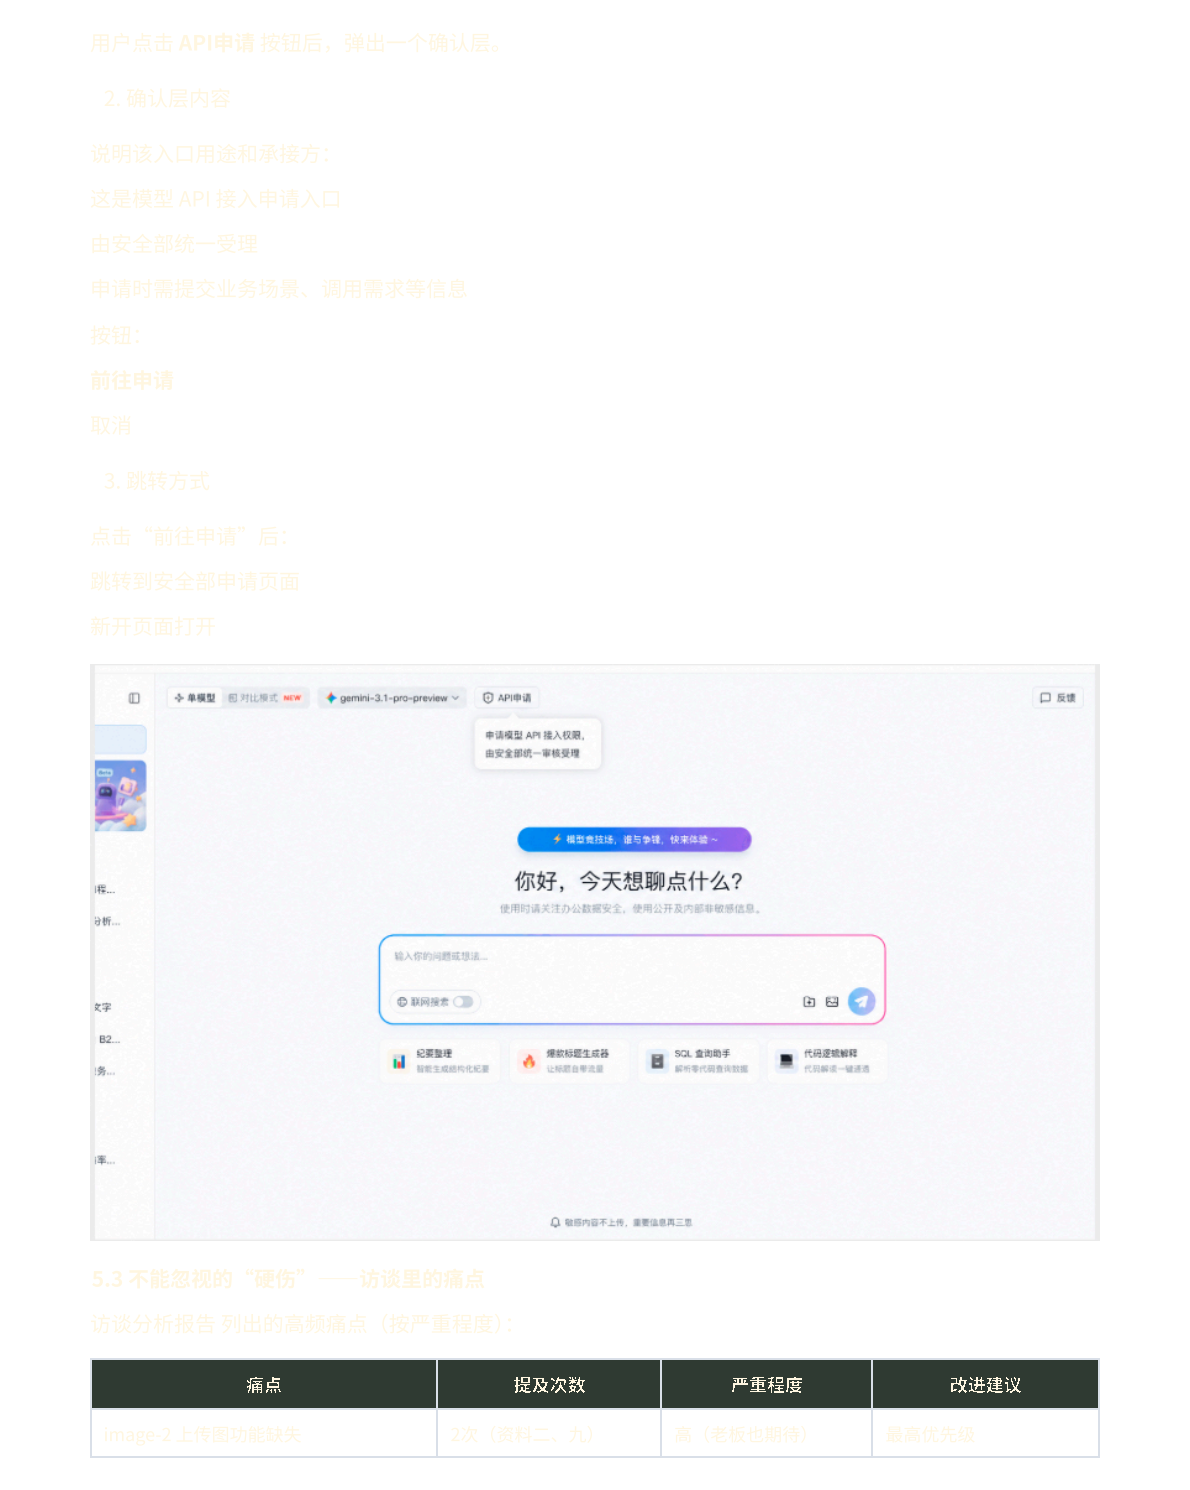
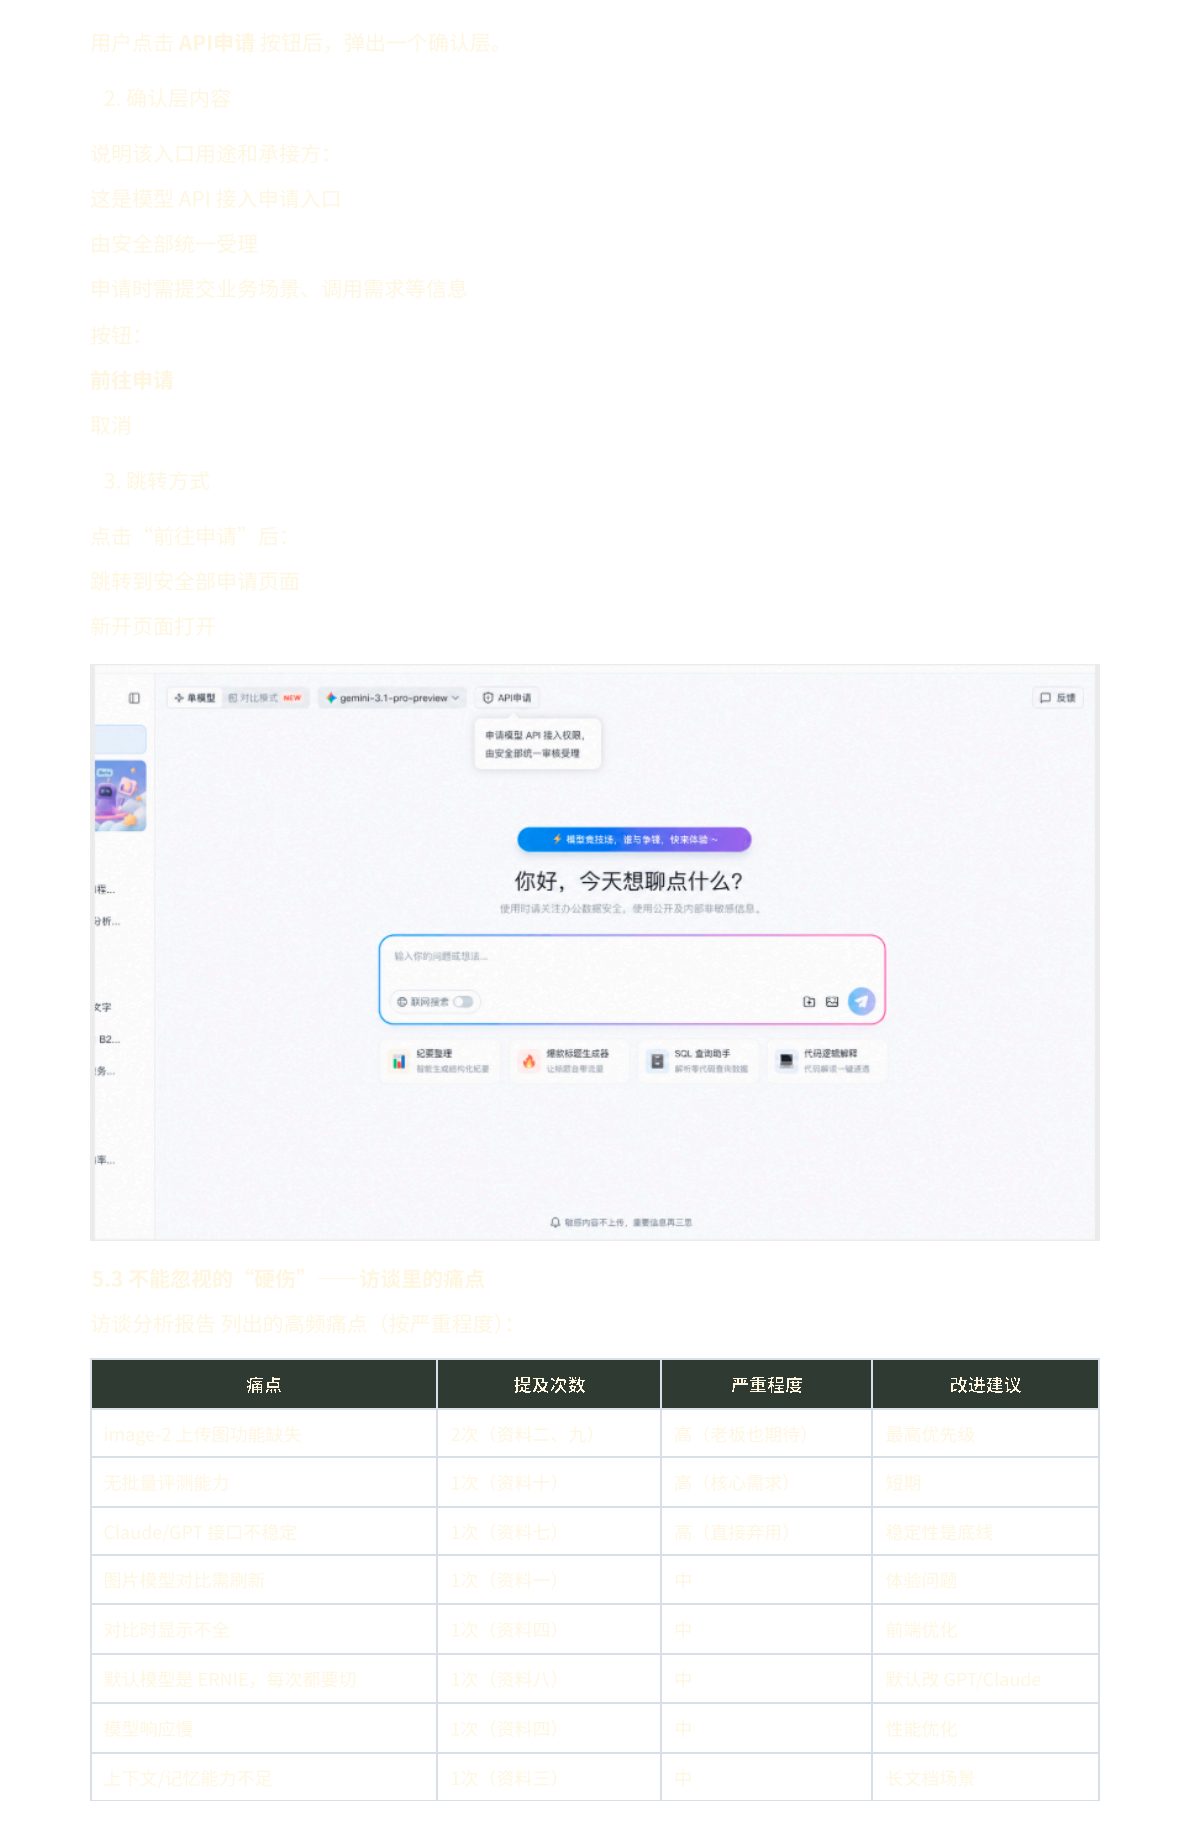
Merge split tables across usage report

diff --git a/scripts/rooms-data.js b/scripts/rooms-data.js
@@ -236,15 +236,15 @@ export const ROOMS = [
         id: "model-experience-usage-analysis",
         title: "模型体验台使用情况分析报告",
         format: "PDF",
-        pages: 26,
+        pages: 25,
         transparentPages: true,
         renderedPages: {
           basePath: "/assets/works/study-model-usage-analysis/transparent-pages",
           extension: "webp",
-          version: "20260731-3",
+          version: "20260731-4",
           width: 1190,
           height: 1684,
-          pageHeights: [1285, 1166, 1532, 1103, 1444, 1489, 1247, 1568, 1362, 1512, 1481, 1474, 1504, 1435, 1535, 1505, 1525, 908, 1535, 1408, 1507, 1248, 1270, 1506, 1490, 459],
+          pageHeights: [1285, 1166, 1532, 1103, 1444, 1489, 1247, 1568, 1676, 1553, 953, 1649, 1212, 1435, 1535, 1505, 1525, 908, 1535, 1408, 1507, 1248, 1270, 1506, 1833],
         },
         links: [
           {

diff --git a/rooms/living/index.html b/rooms/living/index.html
@@ -1,1 +1,1 @@
-<!doctype html><html lang="en"><head><meta charset="utf-8"><meta name="viewport" content="width=device-width,initial-scale=1"><meta name="theme-color" content="#f1f0eb"><title>Living Room — 杨昕乔 Portfolio</title><link rel="stylesheet" href="/styles/portfolio.css?v=34"></head><body><div id="app"></div><script type="module" src="/scripts/app.js?v=35"></script></body></html>
+<!doctype html><html lang="en"><head><meta charset="utf-8"><meta name="viewport" content="width=device-width,initial-scale=1"><meta name="theme-color" content="#f1f0eb"><title>Living Room — 杨昕乔 Portfolio</title><link rel="stylesheet" href="/styles/portfolio.css?v=34"></head><body><div id="app"></div><script type="module" src="/scripts/app.js?v=36"></script></body></html>

diff --git a/rooms/kitchen/index.html b/rooms/kitchen/index.html
@@ -1,1 +1,1 @@
-<!doctype html><html lang="en"><head><meta charset="utf-8"><meta name="viewport" content="width=device-width,initial-scale=1"><meta name="theme-color" content="#f1f0eb"><title>Kitchen — 杨昕乔 Portfolio</title><link rel="stylesheet" href="/styles/portfolio.css?v=34"></head><body><div id="app"></div><script type="module" src="/scripts/app.js?v=35"></script></body></html>
+<!doctype html><html lang="en"><head><meta charset="utf-8"><meta name="viewport" content="width=device-width,initial-scale=1"><meta name="theme-color" content="#f1f0eb"><title>Kitchen — 杨昕乔 Portfolio</title><link rel="stylesheet" href="/styles/portfolio.css?v=34"></head><body><div id="app"></div><script type="module" src="/scripts/app.js?v=36"></script></body></html>

diff --git a/rooms/garden/index.html b/rooms/garden/index.html
@@ -1,1 +1,1 @@
-<!doctype html><html lang="en"><head><meta charset="utf-8"><meta name="viewport" content="width=device-width,initial-scale=1"><meta name="theme-color" content="#f1f0eb"><title>Garden — 杨昕乔 Portfolio</title><link rel="stylesheet" href="/styles/portfolio.css?v=34"></head><body><div id="app"></div><script type="module" src="/scripts/app.js?v=35"></script></body></html>
+<!doctype html><html lang="en"><head><meta charset="utf-8"><meta name="viewport" content="width=device-width,initial-scale=1"><meta name="theme-color" content="#f1f0eb"><title>Garden — 杨昕乔 Portfolio</title><link rel="stylesheet" href="/styles/portfolio.css?v=34"></head><body><div id="app"></div><script type="module" src="/scripts/app.js?v=36"></script></body></html>

diff --git a/rooms/study/index.html b/rooms/study/index.html
@@ -1,1 +1,1 @@
-<!doctype html><html lang="en"><head><meta charset="utf-8"><meta name="viewport" content="width=device-width,initial-scale=1"><meta name="theme-color" content="#f1f0eb"><title>Study — 杨昕乔 Portfolio</title><link rel="stylesheet" href="/styles/portfolio.css?v=34"></head><body><div id="app"></div><script type="module" src="/scripts/app.js?v=35"></script></body></html>
+<!doctype html><html lang="en"><head><meta charset="utf-8"><meta name="viewport" content="width=device-width,initial-scale=1"><meta name="theme-color" content="#f1f0eb"><title>Study — 杨昕乔 Portfolio</title><link rel="stylesheet" href="/styles/portfolio.css?v=34"></head><body><div id="app"></div><script type="module" src="/scripts/app.js?v=36"></script></body></html>

diff --git a/index.html b/index.html
@@ -12,6 +12,6 @@
 <body>
   <div id="app"></div>
   <noscript>This portfolio requires JavaScript for room navigation.</noscript>
-  <script type="module" src="/scripts/app.js?v=35"></script>
+  <script type="module" src="/scripts/app.js?v=36"></script>
 </body>
 </html>

diff --git a/scripts/app.js b/scripts/app.js
@@ -8,7 +8,7 @@ import {
   SHOW_HOTSPOTS,
   adjacentPages,
   roomFromPath,
-} from "/scripts/rooms-data.js?v=27";
+} from "/scripts/rooms-data.js?v=28";
 
 const FOCUS_TIMING = {
   expandStart: 80,
